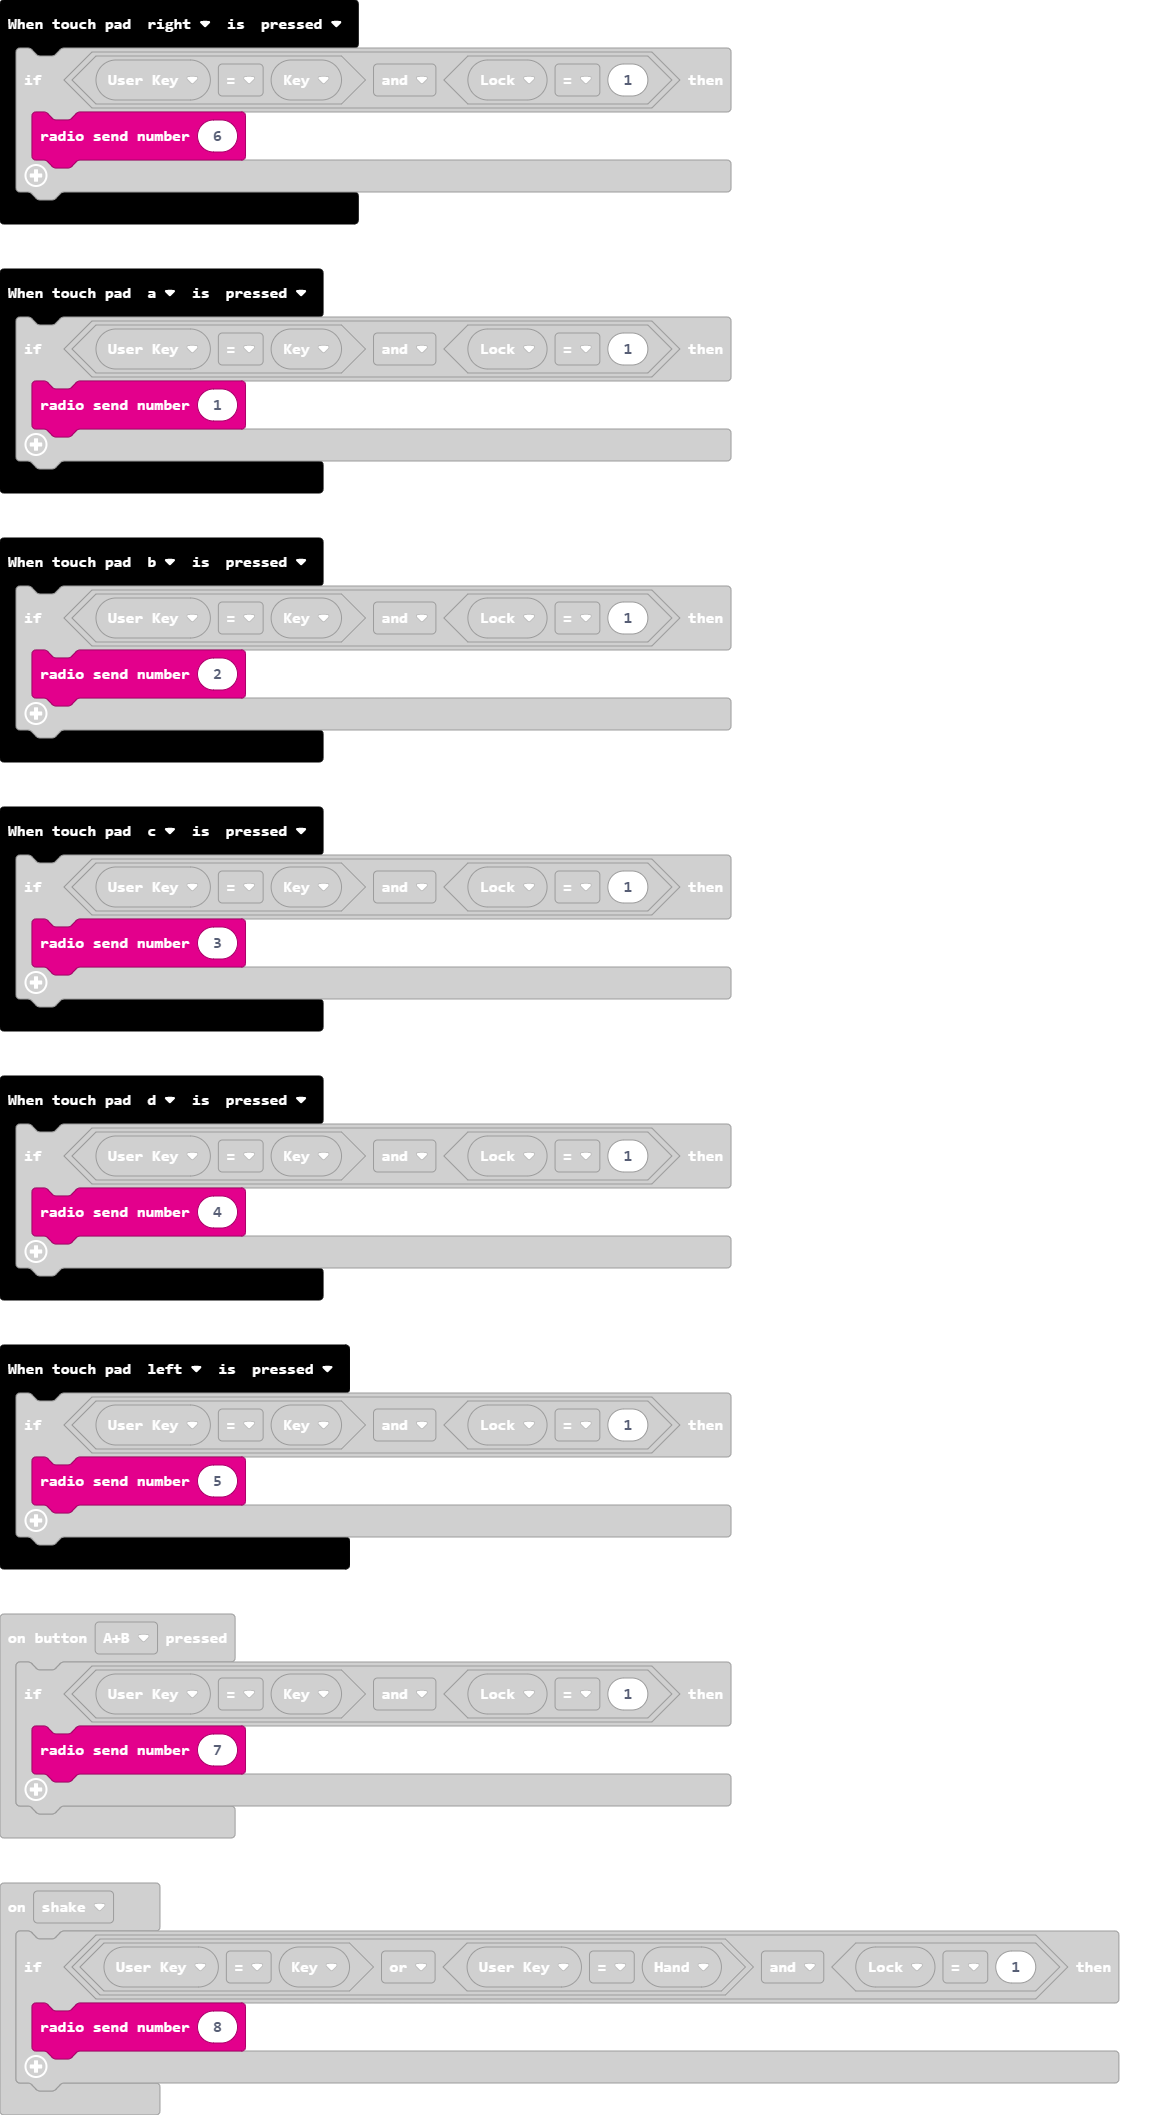
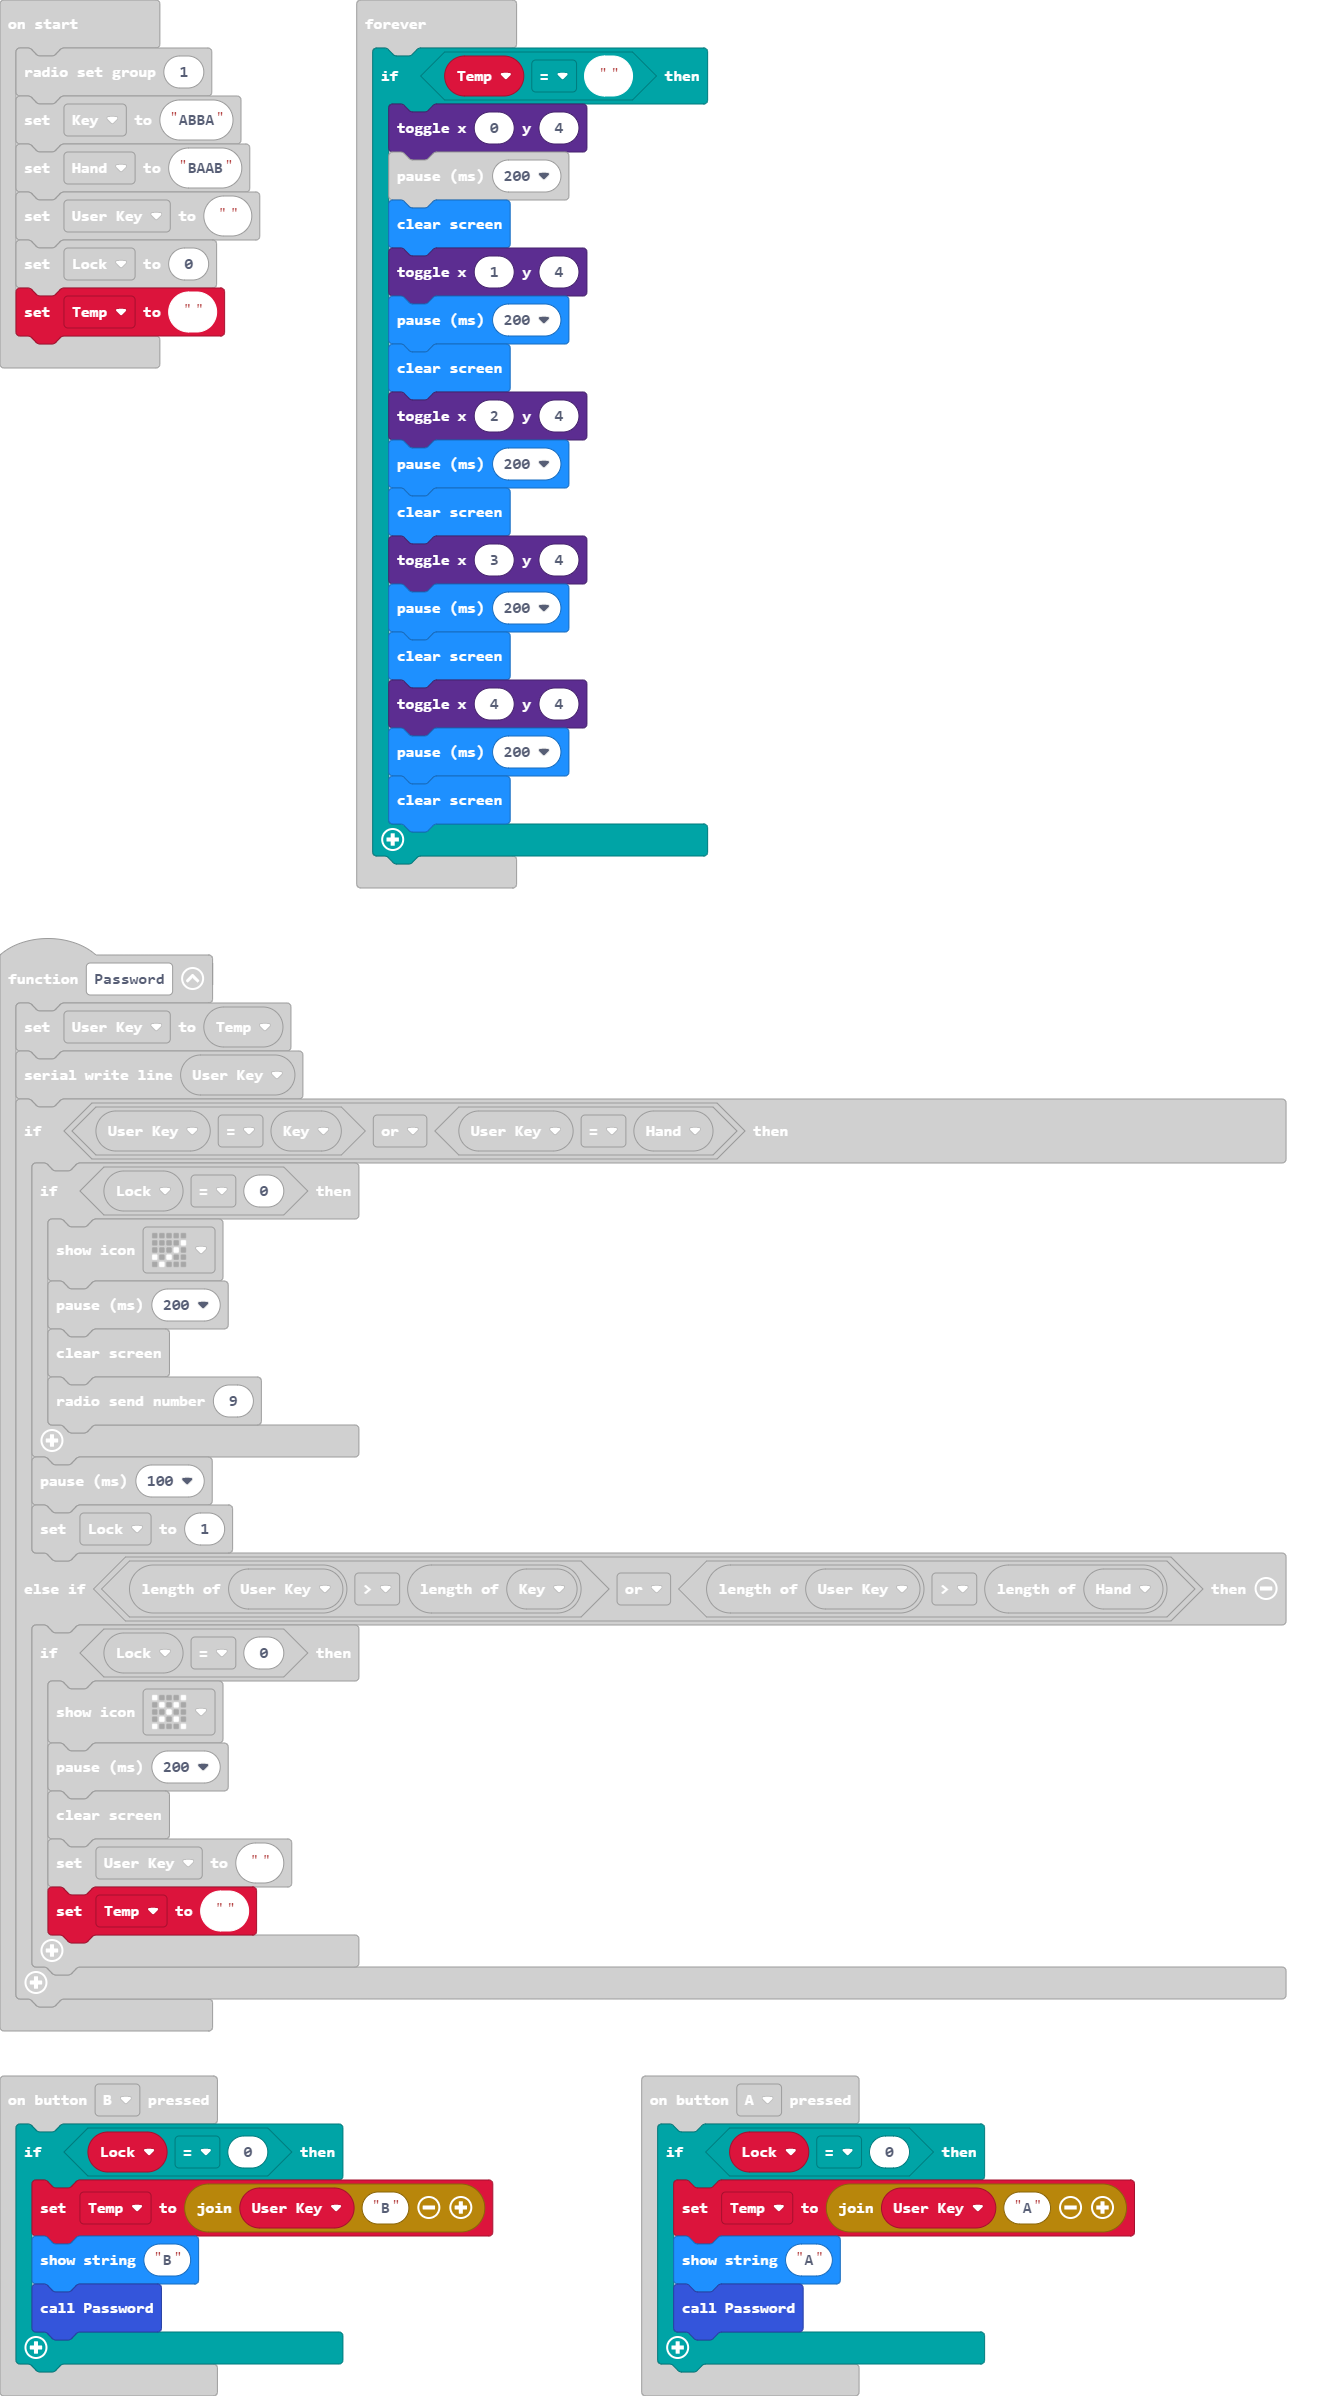
Update main.blocks, main.ts

diff --git a/main.ts b/main.ts
@@ -16,6 +16,7 @@ function Password () {
             basic.pause(200)
             basic.clearScreen()
             User_Key = ""
+            Temp = ""
         }
     }
 }
@@ -25,9 +26,11 @@ touchbit.on(touchbit.TouchPad.b, touchbit.TouchEvent.pressed, function () {
     }
 })
 input.onButtonPressed(Button.A, function () {
-    Temp = "" + User_Key + "A"
-    basic.showString("A")
-    Password()
+    if (Lock == 0) {
+        Temp = "" + User_Key + "A"
+        basic.showString("A")
+        Password()
+    }
 })
 input.onGesture(Gesture.LogoUp, function () {
     if (User_Key == Hand && Lock == 1) {
@@ -75,9 +78,11 @@ input.onButtonPressed(Button.AB, function () {
     }
 })
 input.onButtonPressed(Button.B, function () {
-    Temp = "" + User_Key + "B"
-    basic.showString("B")
-    Password()
+    if (Lock == 0) {
+        Temp = "" + User_Key + "B"
+        basic.showString("B")
+        Password()
+    }
 })
 input.onGesture(Gesture.Shake, function () {
     if ((User_Key == Key || User_Key == Hand) && Lock == 1) {
@@ -114,12 +119,23 @@ Key = "ABBA"
 Hand = "BAAB"
 User_Key = ""
 Lock = 0
+Temp = ""
 basic.forever(function () {
-    if (Lock == 0) {
+    if (Temp == "") {
         led.toggle(0, 4)
+        basic.pause(200)
+        basic.clearScreen()
         led.toggle(1, 4)
+        basic.pause(200)
+        basic.clearScreen()
         led.toggle(2, 4)
+        basic.pause(200)
+        basic.clearScreen()
         led.toggle(3, 4)
         basic.pause(200)
+        basic.clearScreen()
+        led.toggle(4, 4)
+        basic.pause(200)
+        basic.clearScreen()
     }
 })
